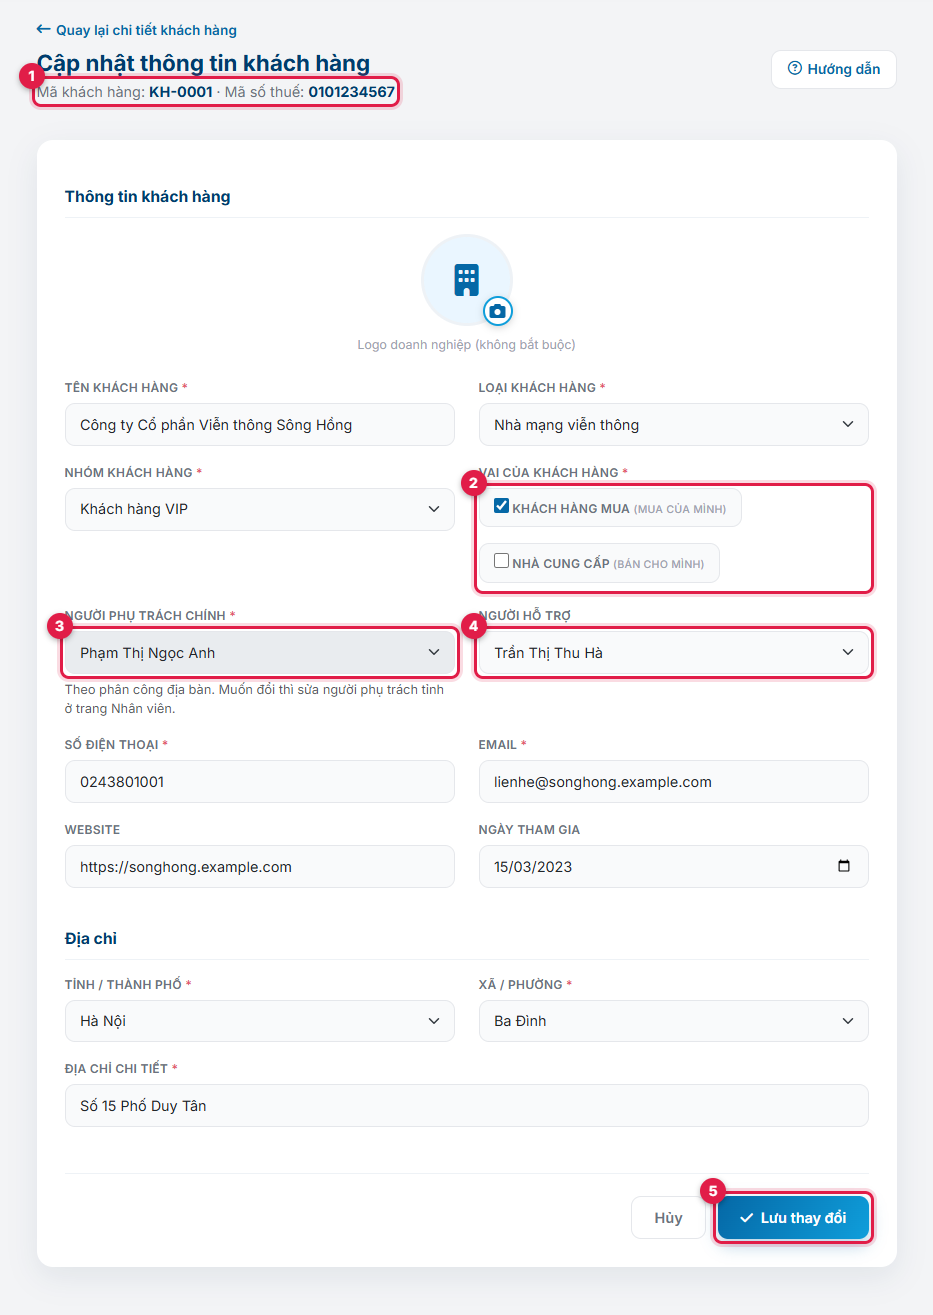
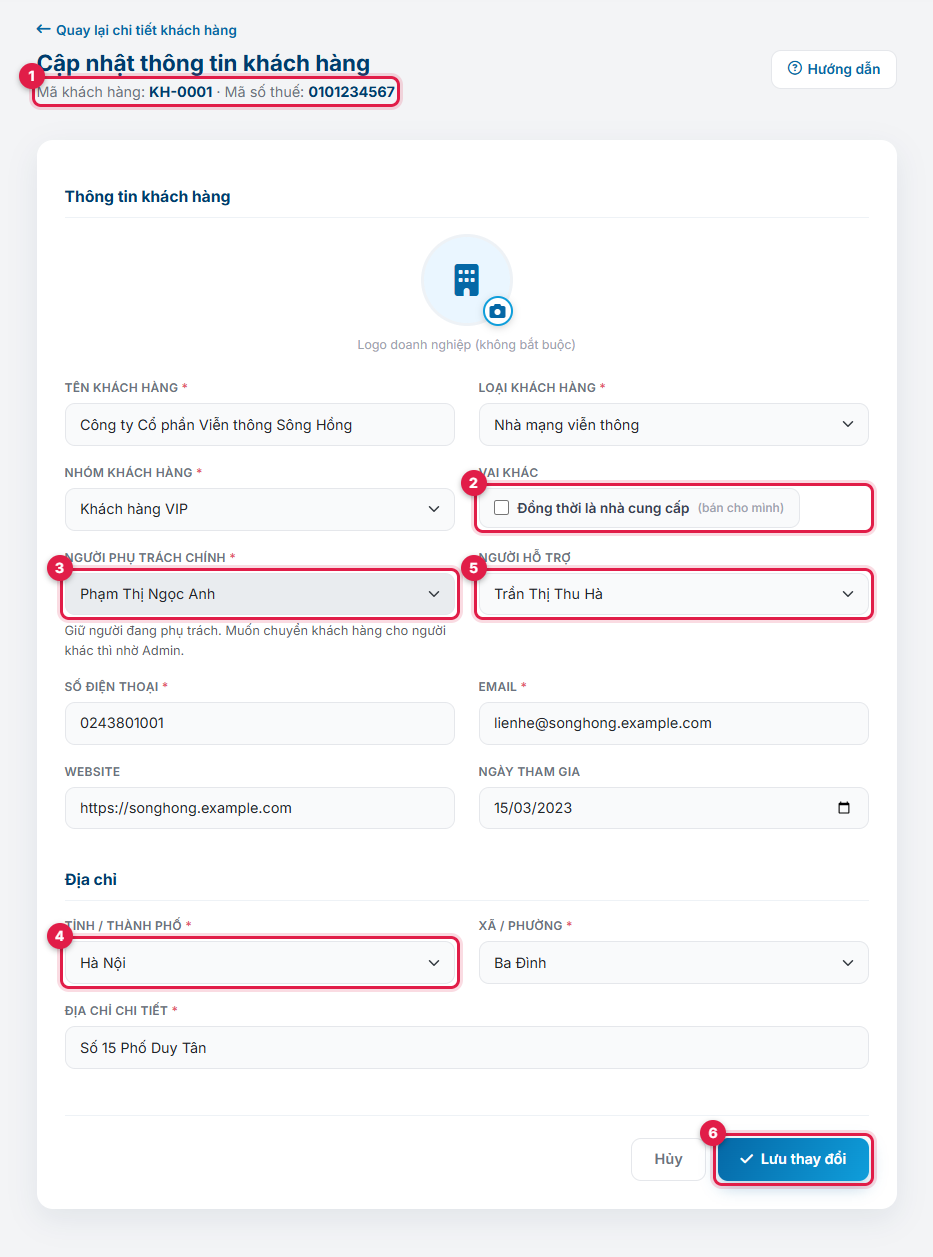
HDSD Khách hàng: chụp lại trang Sửa, thêm ảnh trang Sửa nhà cung cấp
Ảnh 08 khoanh thêm ô Tỉnh (bước 4 mới từ PR #173); ảnh 08b trang Sửa nhà cung
cấp (NCC-005 của sales4), Hình 9 -- hình xoá dồn thành 10, 11. Report6 thêm
hai dòng Lịch sử thay đổi cho PR #172, #173.

diff --git a/tools/guide/word/export_word.py b/tools/guide/word/export_word.py
@@ -754,6 +754,9 @@ CHANGES = [
     ('29/09/2026', 'S', 'Sản phẩm, Khách hàng: hợp đồng "Chưa hiệu lực" không còn hiện màu đỏ; các danh sách giữ đúng từ khoá '
                         'có dấu & hoặc # khi sang trang (PR #166).'),
     ('29/09/2026', 'T', 'Phiếu hỗ trợ: ô lọc Người xử lý; kỹ thuật viên mặc định xem phiếu của mình (PR #167).'),
+    ('01/10/2026', 'S', 'Khách hàng: tách trang Sửa khách hàng / Sửa nhà cung cấp; ô "Đồng thời là ..." thay hai ô tick '
+                        'vai (PR #172).'),
+    ('01/10/2026', 'S', 'Khách hàng: Sales không đổi được người phụ trách chính ở trang Sửa (PR #173).'),
 ]
 
 
